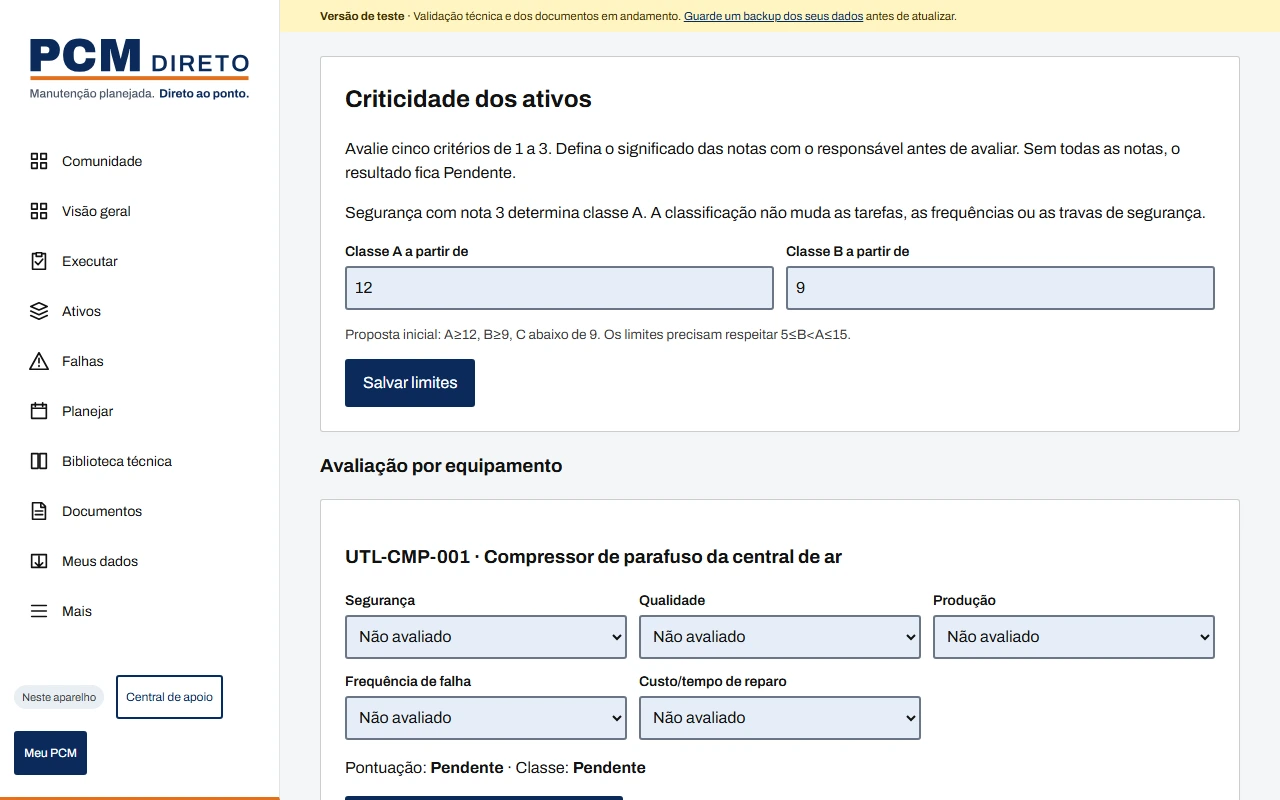
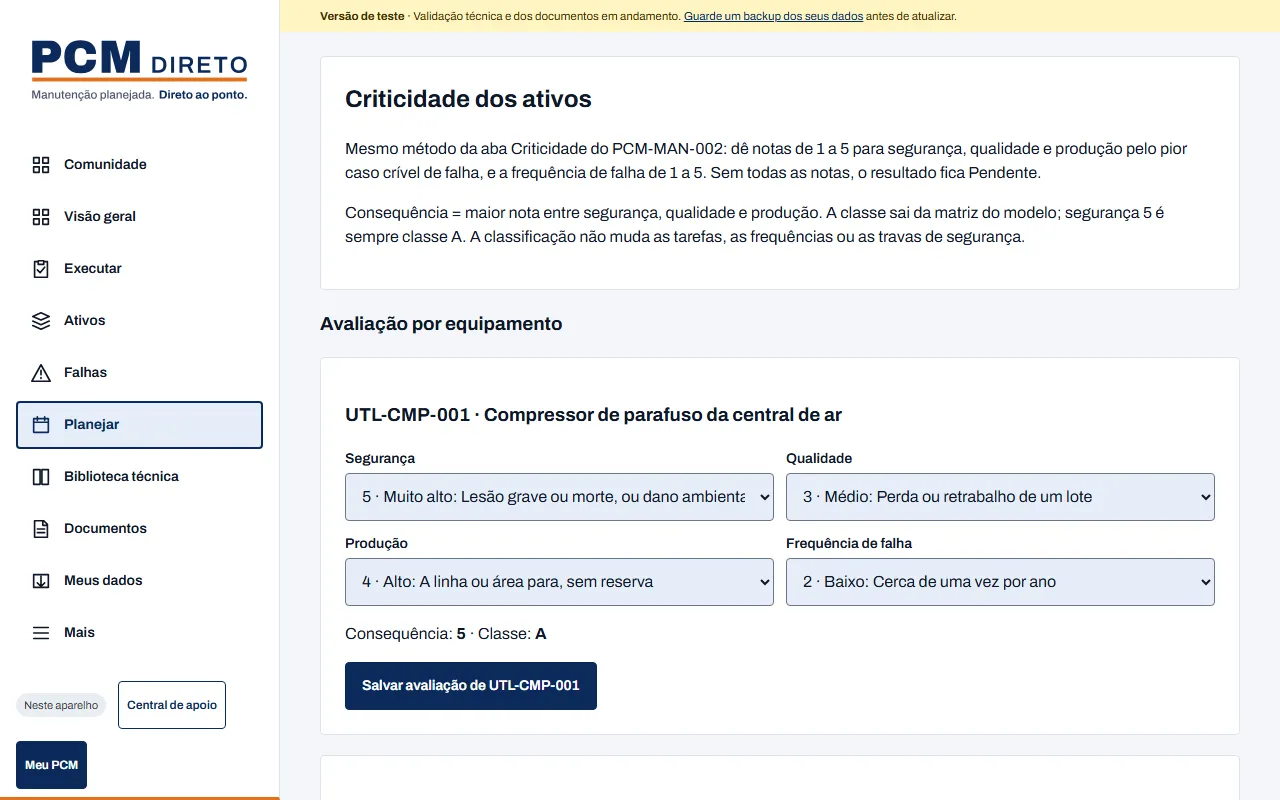
Atualiza a imagem da tela de Criticidade em Conheça o projeto (notas de 1 a 5)
Gerada por scripts/capturar-criticidade.mjs com o exemplo fictício do app (tarefa O3, não concluída pelo OpenCode).

diff --git a/public/conheca.html b/public/conheca.html
@@ -185,7 +185,7 @@
             <h3>Criticidade sem complicação</h3>
             <p>Notas de 1 a 5 para segurança, qualidade, produção e frequência de falha, no mesmo método do PCM-MAN-002. A classe A/B/C sai da matriz consequência × frequência; segurança 5 é sempre classe A.</p>
           </div>
-          <div class="moldura"><img src="./apresentacao/criticidade-pc.webp" width="1280" height="800" loading="lazy" alt="Tela de criticidade com a avaliação de um compressor."></div>
+          <div class="moldura"><img src="./apresentacao/criticidade-pc.webp" width="1280" height="800" loading="lazy" alt="Tela de criticidade: notas de 1 a 5 de segurança, qualidade, produção e frequência de um compressor, com consequência 5 e classe A."></div>
         </div>
         <div class="recurso">
           <div class="texto">
